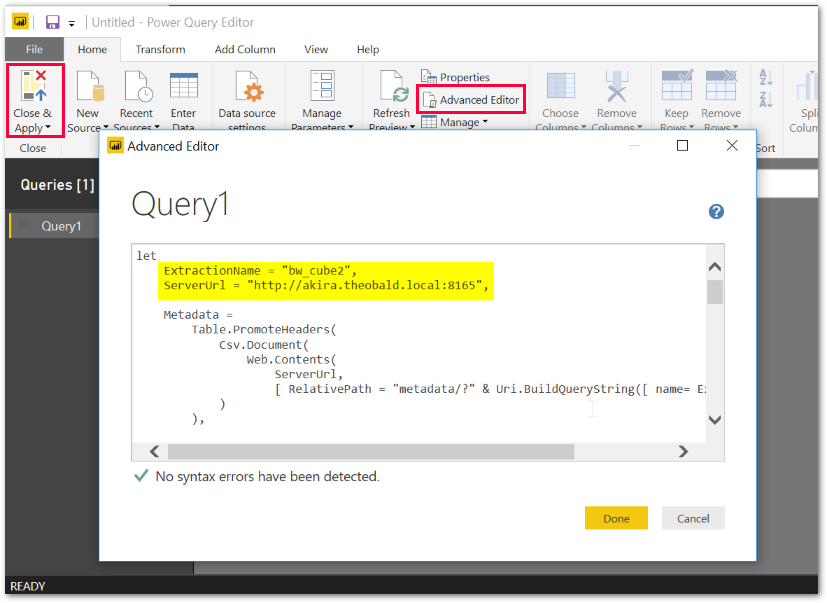
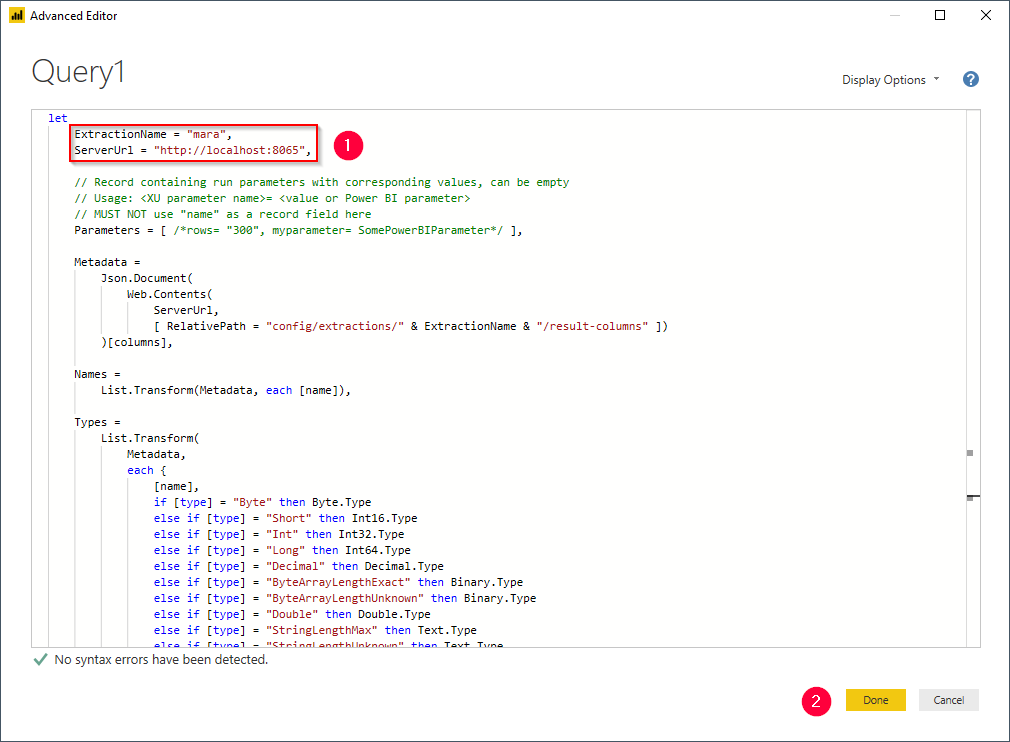
PBI refactoring / style guide II

diff --git a/content/_de/xtract-universal/xu-destinationen/Power-BI-Connector/pbi-script.md b/content/_de/xtract-universal/xu-destinationen/Power-BI-Connector/pbi-script.md
@@ -22,18 +22,18 @@ Verwenden Sie entweder das Power Query M-script **oder** den Power BI Custom Con
 ### Power Query M-script in Power BI einbrichten
 
 {: .box-note }
-**Hinweis:** Verwenden Sie nur die Extraktionen mit der *Power BI Connector* Destination.
+**Hinweis:** Verwenden Sie nur die Extraktionen mit der [Power BI Connector Destination](./pbi-verbindung).
 
-1. Erstellen Sie einen Power BI-Bericht mithilfe einer *Leeren Abfrage* (Blank Query) als Datenquelle.
-2. Öffnen Sie den *Erweiterten Editor* (Advanced Editor).
+1. Erstellen Sie einen Power BI-Bericht mittels **Home > Get Data > Blank Query** als Datenquelle.
+2. Öffnen Sie den **[Advanced Editor]**.
+![Advanced Editor](/img/content/pbi_advanced_editor.png){:class="img-responsive"}
 3. Öffnen Sie das Xtract Universal *loading_script* in jedem beliebigen Texteditor.
 4. Kopieren Sie den kompletten Inhalt in das Fenster des erweiterten Editors von Power BI.
-5. Ändern Sie die Werte in den Feldern **ExtractionName** und  **ServerURL** enstprechend dem Namen Ihrer Xtract Universal Extraktion und dem Webserver.
-![M-Script](/img/content/XU_PowerQueryScript.png){:class="img-responsive"}
-6. Schließen Sie den *Erweiterten Editor*.
-7. Klicken Sie die Schaltfläche *Fertig* (Close & Apply).
+5. Ändern Sie die Werte in den Feldern **ExtractionName** und  **ServerURL** enstprechend dem Namen Ihrer Xtract Universal Extraktion und dem Webserver. (1)
 ![PowerQueryEditor](/img/content/XU_PBI_PowerQueryEditor.png){:class="img-responsive"}
-8. Wenn Sie aufgefordert werden eine der folgenden Authentifizierungsmethoden (*Anonymous*, *Basic* , *Windows*) auszuwählen, <br> befolgen Sie die Handlungsanweisungen aus dem Abschnitt [Singe Sign On und SAP-Authentifizierung](./pbi-SSO):
+6. Bestätigen Sie das Skript durch Klicken auf **[Done]** (2).
+7. Klicken Sie die Schaltfläche **{Close & Apply]**.
+8. Wenn Sie aufgefordert werden eine der folgenden Authentifizierungsmethoden (*Anonymous*, *Basic* , oder *Windows*) auszuwählen, <br> befolgen Sie die Handlungsanweisungen aus dem Abschnitt [Singe Sign On und SAP-Authentifizierung](./pbi-SSO).
  
 
 

diff --git a/content/_en/xtract-universal/xu-destinations/Power-BI-Connector/pbi-script.md b/content/_en/xtract-universal/xu-destinations/Power-BI-Connector/pbi-script.md
@@ -22,17 +22,17 @@ Use either the Power Query M-script **or** the Power BI Custom Connector.
 ### Set up the Power Query M-script in Power BI
 
 {: .box-note }
-**Note:** Only use the extractions with the *Power BI Connector* destination.
+**Note:** Only use the extractions with the [Power BI Connector destination](./pbi-connection).
 
-1. Create a new Power BI report using a *Blank Query* as data source.
-2. Open the *Advanced Editor*.
+1. Create a new Power BI report using **Home > Get Data > Blank Query** as data source.
+2. Open the **[Advanced Editor]**.
+![Advanced Editor](/img/content/pbi_advanced_editor.png){:class="img-responsive"}
 3. Open the Xtract Universal *loading_script* in any text editor.
 4. Copy the complete content into the *Advanced Editor* window in Power BI.
-5. Change the values for **ExtractionName** and the **ServerURL** to match the names of your Xtract Universal extraction and web server.<br>
-6. Close the *Advanced Editor*.
-![M-Script](/img/content/XU_PowerQueryScript.png){:class="img-responsive"}
-7. Click on *Close & Apply*.
+5. Change the values for **ExtractionName** and the **ServerURL** to match the names of your Xtract Universal extraction and web server (1).
 ![PowerQueryEditor](/img/content/XU_PBI_PowerQueryEditor.png){:class="img-responsive"}
+6. Confirm the script by clicking **[Done]** (2) within *Advanced Editor*.}
+7. Click on **{Close & Apply]**.
 8. When prompted for *Anonymous*, *Basic* or *Windows* authentication, follow the steps as outlined in [Single Sign On and SAP authentication](./pbi-SSO) 
 
 
